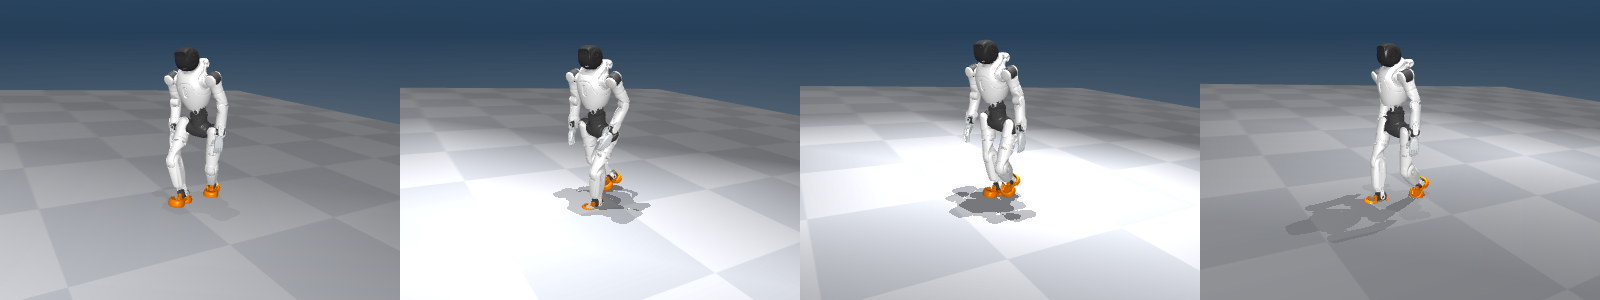
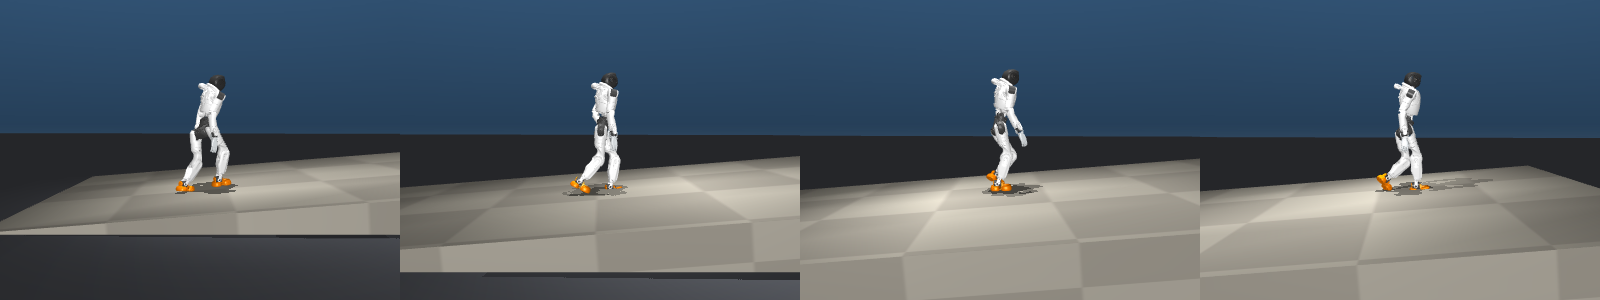
Mirror catalog: re-render the mirrored driveway GIF with the visible slab and the across-slope camera (MIRROR_ONLY option)

diff --git a/tools/mirror/mirror_sets.py b/tools/mirror/mirror_sets.py
@@ -426,6 +426,8 @@ def render_frames(tk, ctx, az_sign=1, n=None):
     cam = mujoco.MjvCamera(); cam.type = mujoco.mjtCamera.mjCAMERA_FREE
     psi = tk['mirror']['psi'] if 'mirror' in tk else tk['frame'][1]
     cam.distance, cam.elevation, cam.azimuth = 2.9, -18, mc.D(psi) + az_sign * 125          # mirrored camera for the mirrored take
+    if tk['prop'] == 'driveway':                                  # as the catalogue: look across the slope
+        cam.distance, cam.elevation, cam.azimuth = 3.8, -4, mc.D(math.atan2(ctx['driveway']['b'], ctx['driveway']['a'])) + 90
     frames = []
     with mujoco.Renderer(m, H, W) as r:
         for i in idx:
@@ -463,7 +465,11 @@ def run_gifs():
         tid = first['gifs'][0]['take'] if first.get('gifs') else first['takes'][0]
         picks[p] = tid
     index = {}
+    only = os.environ.get('MIRROR_ONLY')                                                # e.g. MIRROR_ONLY=driveway
+    index = json.load(open(outd / 'index.json')) if only else index
     for p, tid in picks.items():
+        if only and p != only:
+            continue
         t = next(x for x in mir if x['id'] == tid + '_mir')
         if t['id'] not in keep:
             print('skip (dropped)', t['id']); continue
@@ -475,6 +481,8 @@ def run_gifs():
         strip(fr, outd / 'strips' / (path.stem + '.png'))
         index[path.name] = dict(take=t['id'], prop=p, bytes=nb, frames=len(fr))
         print('gif', path.name, nb // 1000, 'kB', flush=True)
+    if only:
+        json.dump(index, open(outd / 'index.json', 'w'), indent=1); return
     # side by side, stairs side approach: original (catalogue camera) | mirror (mirrored camera)
     tid = cat['stairs1']['categories']['side approach then up']['takes'][0]
     t0 = next(x for x in takes if x['id'] == tid); t = next(x for x in mir if x['id'] == tid + '_mir')
